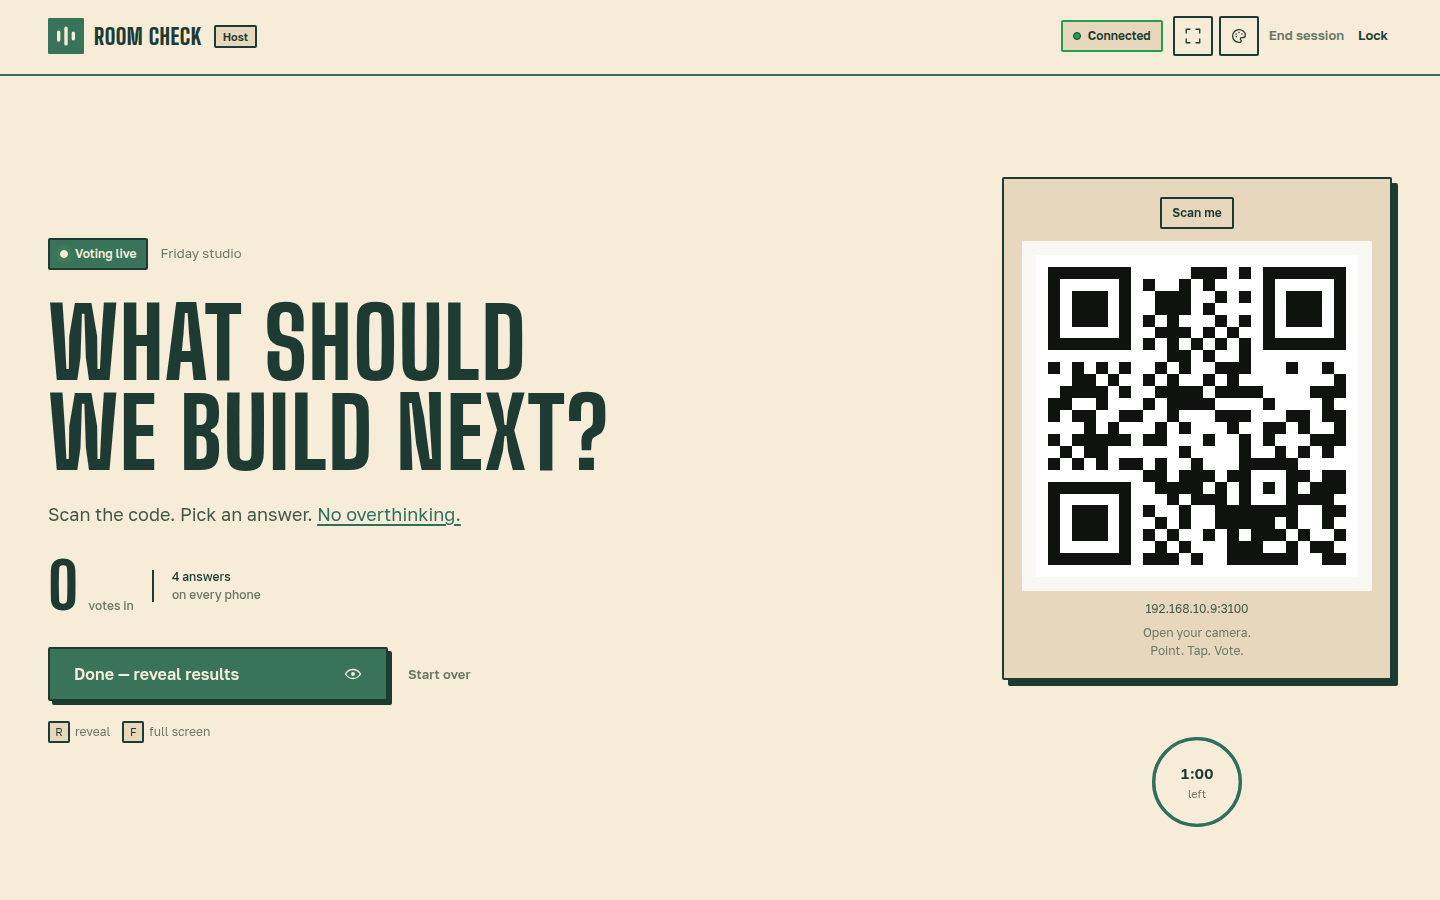
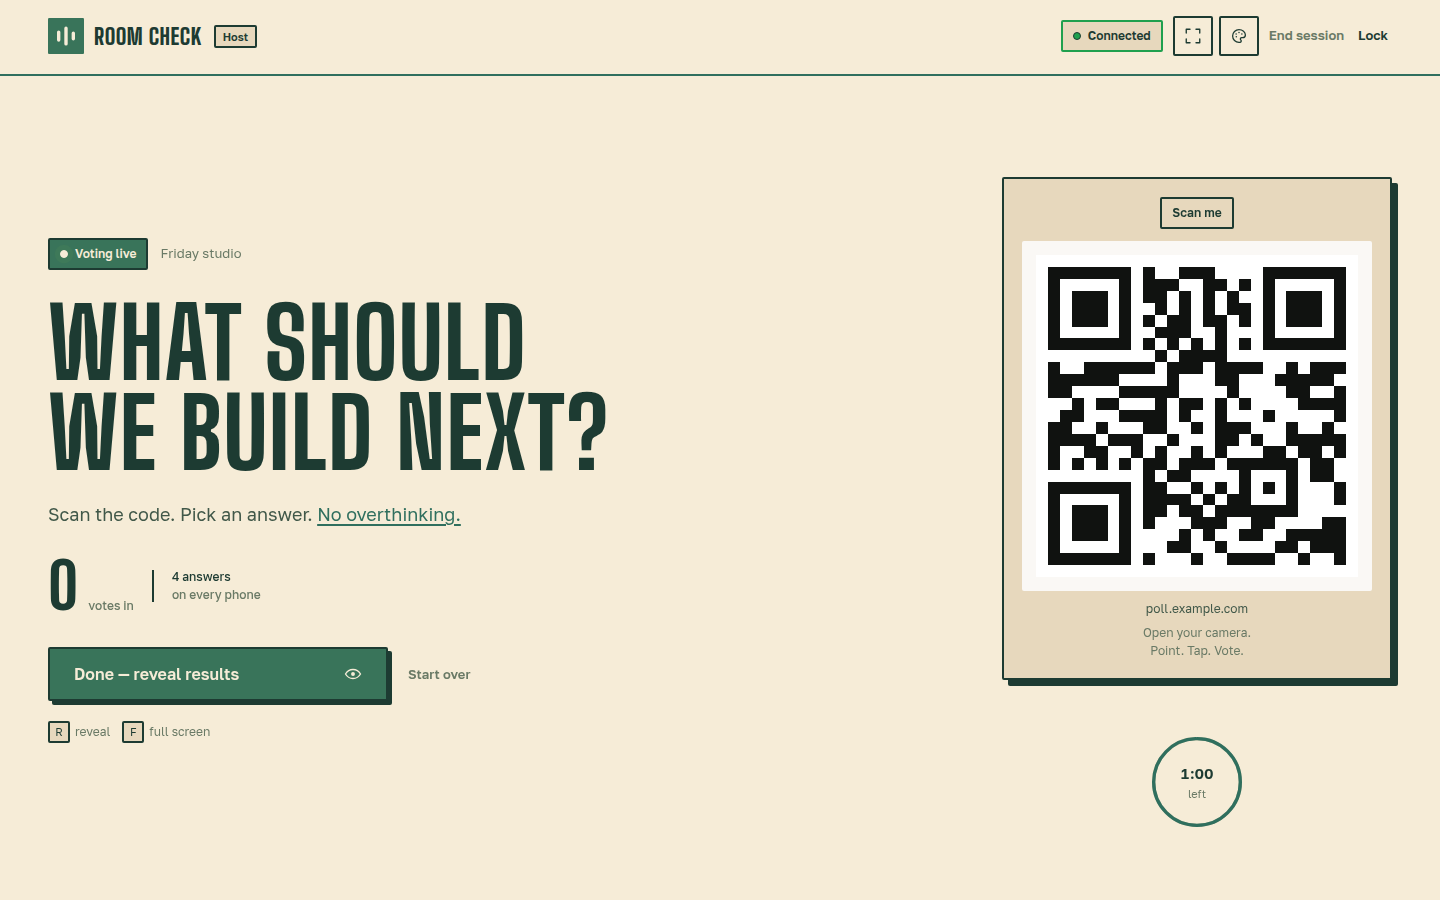
Fix README customiser placement and sanitize screenshots

Changed region(s): [[0.7188, 0.28, 0.9375, 0.6533], [0.7812, 0.6533, 0.875, 0.6844]]

diff --git a/README.md b/README.md
@@ -25,10 +25,6 @@ A self-hosted, real-time audience poll for presentations. Run a vote with a big-
   </tr>
 </table>
 
-<p align="center">
-  <img src="./docs/customizer.png" alt="Room Check theme customiser with palette, colour and logo controls" width="100%" />
-</p>
-
 ## Features
 
 - Password-protected host console, configured on first launch
@@ -311,6 +307,10 @@ The audience sees a waiting screen before a round starts and automatically switc
 ## Customise the room
 
 Click the palette icon in the host header to open the theme customiser. Changes preview live on the host screen; nothing is sent to the audience until you press **Save changes**.
+
+<p align="center">
+  <img src="./docs/customizer.png" alt="Room Check theme customiser with palette, colour and logo controls" width="88%" />
+</p>
 
 ### Palette
 
